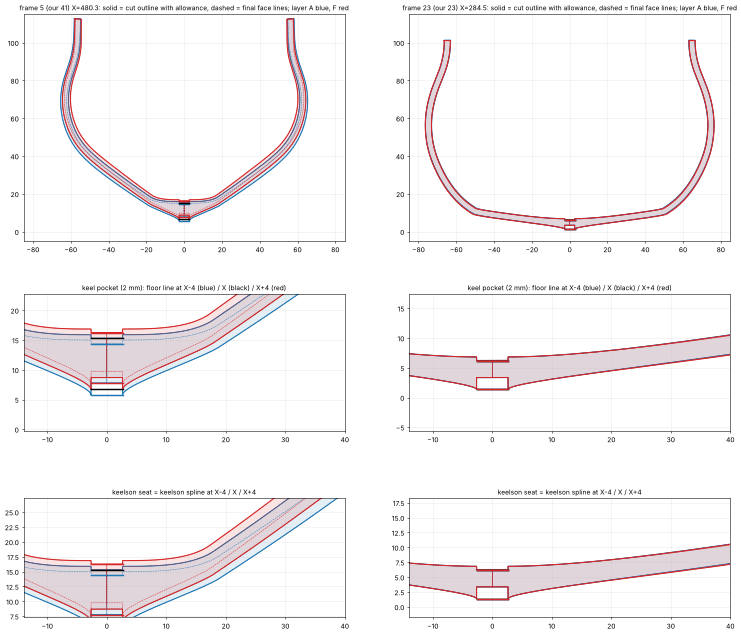
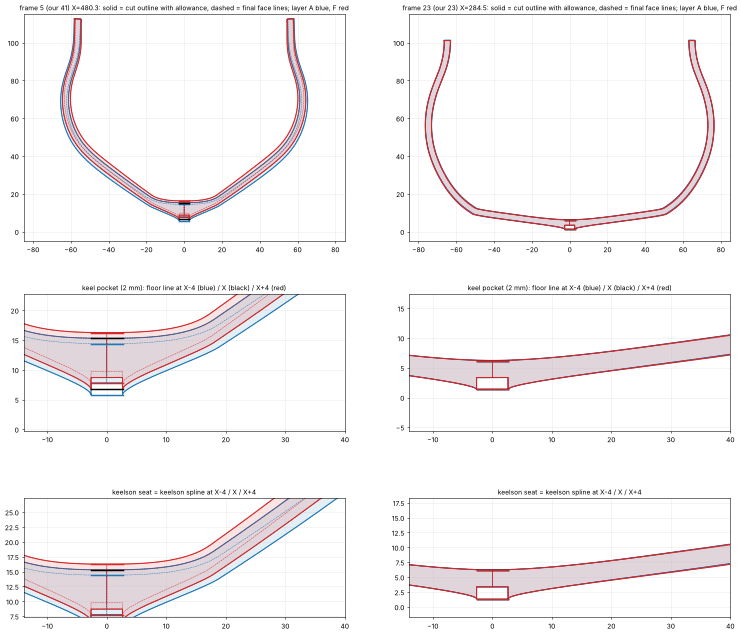
Frames: NOSTEP option (no step/legs at the keelson), allowance plot update
Claude-Session: https://claude.ai/code/session_017HV2YHL4JdRTKuYXk76aAy

diff --git a/royal_caroline/py/frames_batch_2d.py b/royal_caroline/py/frames_batch_2d.py
@@ -6,7 +6,7 @@ from scipy.interpolate import splprep,splev
 from scipy.signal import savgol_filter
 import matplotlib; matplotlib.use('Agg'); import matplotlib.pyplot as plt
 import hull_new_sections as HN
-KB=2.65; T=3.2; PEN_LOW=2.5; PEN_UP=float(__import__("os").environ.get("PEN_UP","0.6"))
+NOSTEP=__import__('os').environ.get('NOSTEP','0')=='1'; KB=2.65; T=3.2; PEN_LOW=2.5; PEN_UP=float(__import__("os").environ.get("PEN_UP","0.6"))
 BB=json.load(open('data/step44_profiles.json')); XF=json.load(open('data/frames_X.json'))['X_mm']
 PP={k:Polygon(max(v,key=lambda q:Polygon(q).area)).buffer(0) for k,v in BB.items() if k not in('Split1[1]','Split1[2]','Boss-Extrude4[2]')}
 UB=unary_union(list(PP.values()))
@@ -33,6 +33,10 @@ def face_poly(Xf,Xlay):
     blend=herm(np.array([KB,leg_bot]),np.array([0,5.0]),p0,t0); O=np.vstack([blend,P[k+1:]]); O=O[np.argsort(O[:,1])]
     sm=np.c_[savgol_filter(O[:,0],11,3),savgol_filter(O[:,1],11,3)]; d_=np.gradient(sm,axis=0); d_/=np.hypot(*d_.T)[:,None]; m=np.c_[-d_[:,1],d_[:,0]]; I=O+m*T
     kk=int(np.where((I[:,0]>8)&(I[:,1]>zt+2.5))[0][0]); Pj=I[kk]; Tj=I[kk+2]-I[kk-2]; Tj=Tj/np.hypot(*Tj)
+    if NOSTEP:      # no step / legs at the keelson: the top is one smooth line from the keelson spline at the centre into the inner line
+        Ps=np.array([0.0,ks_bot]); L=np.hypot(*(Pj-Ps)); sp=herm(Ps,np.array([1.0,0.0])*L*0.9,Pj,Tj*L*0.9); top=np.vstack([sp,I[kk+1:]])
+        poly=Polygon(np.vstack([[[0,keel_top],[KB,keel_top],[KB,leg_bot]],O,top[::-1]])).buffer(0).intersection(box(0,-10,200,300))
+        return poly,dict(keel_top=keel_top,ks_bot=ks_bot,ks_top=ks_top,leg_bot=leg_bot,zt=ks_bot,O=O,I=I)
     Ps=np.array([KB+0.01,zt]); L=np.hypot(*(Pj-Ps)); sp=herm(Ps,np.array([1.0,0.0])*L*0.9,Pj,Tj*L*0.9)
     top=np.vstack([[[KB,ks_bot],[KB,zt]],sp[1:],I[kk+1:]])
     poly=Polygon(np.vstack([[[0,keel_top],[KB,keel_top],[KB,leg_bot]],O,top[::-1],[[0,ks_bot]]])).buffer(0).intersection(box(0,-10,200,300))
